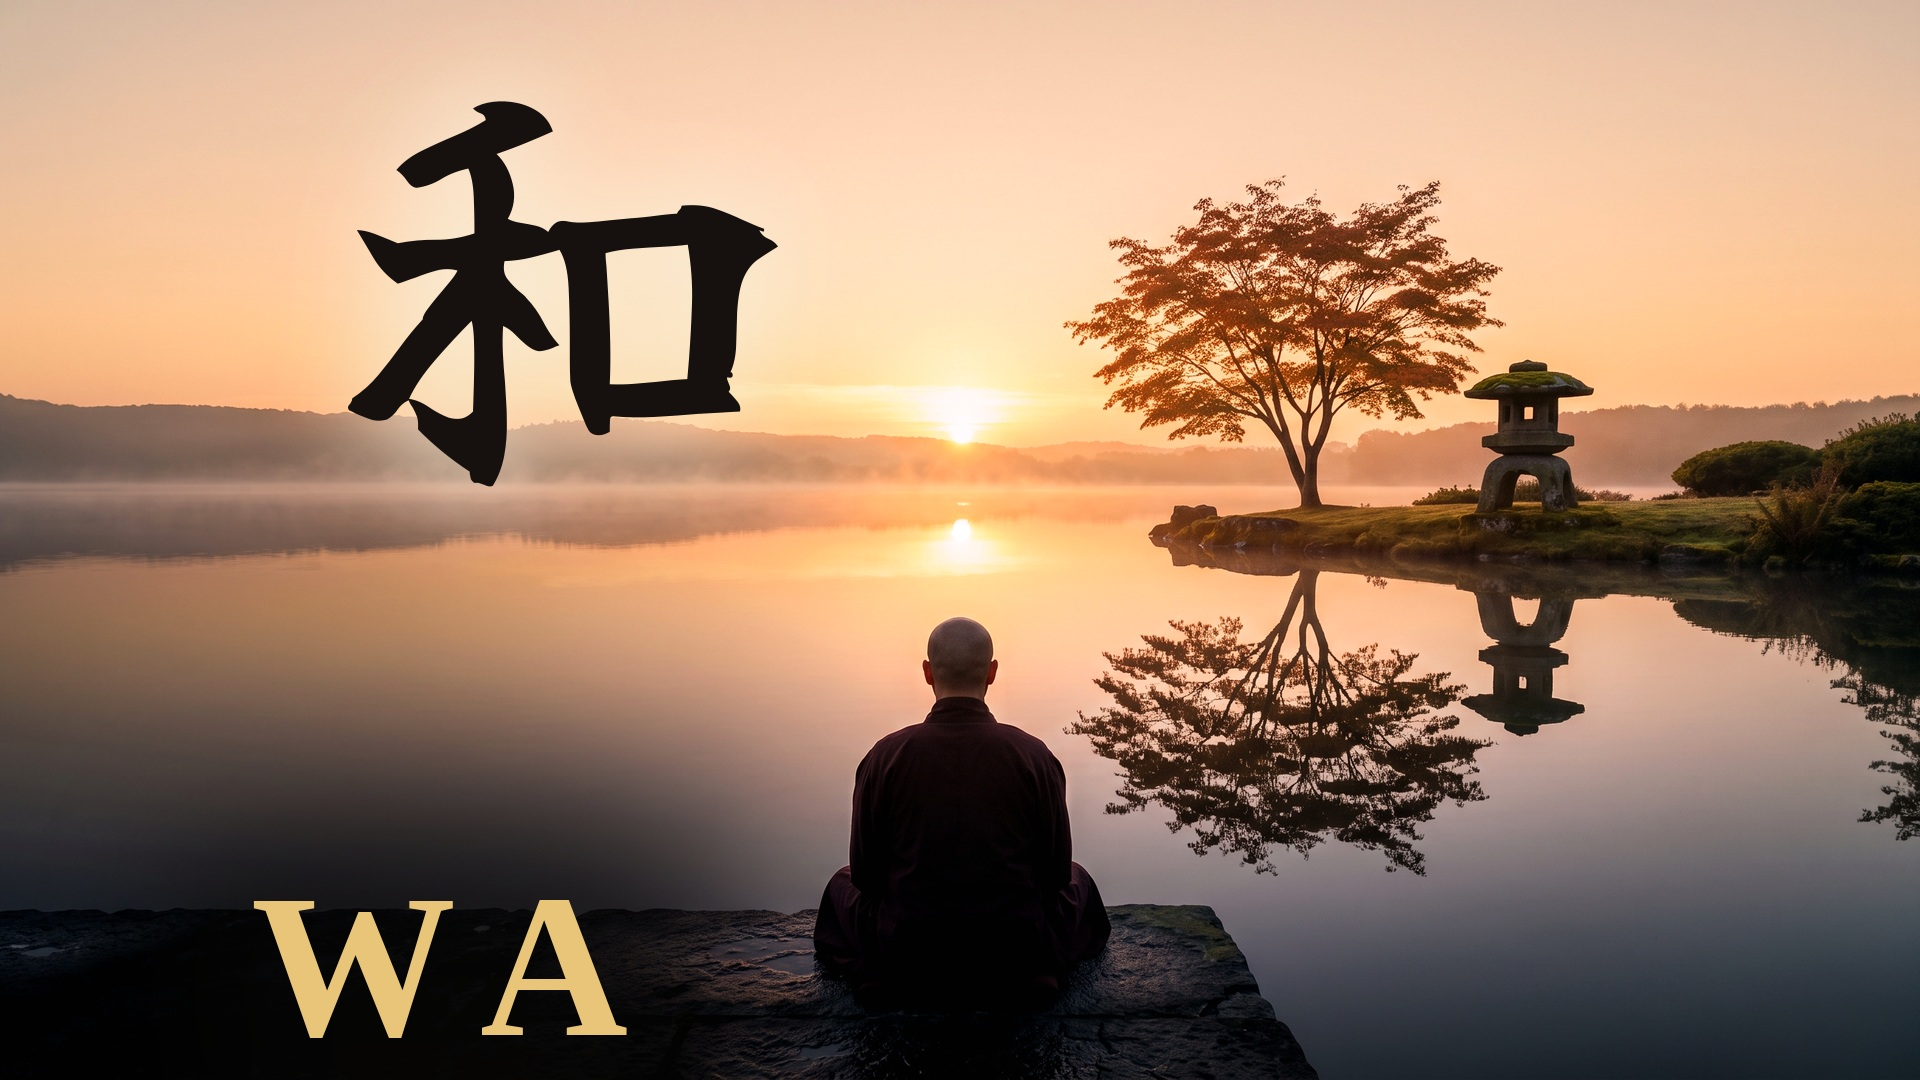
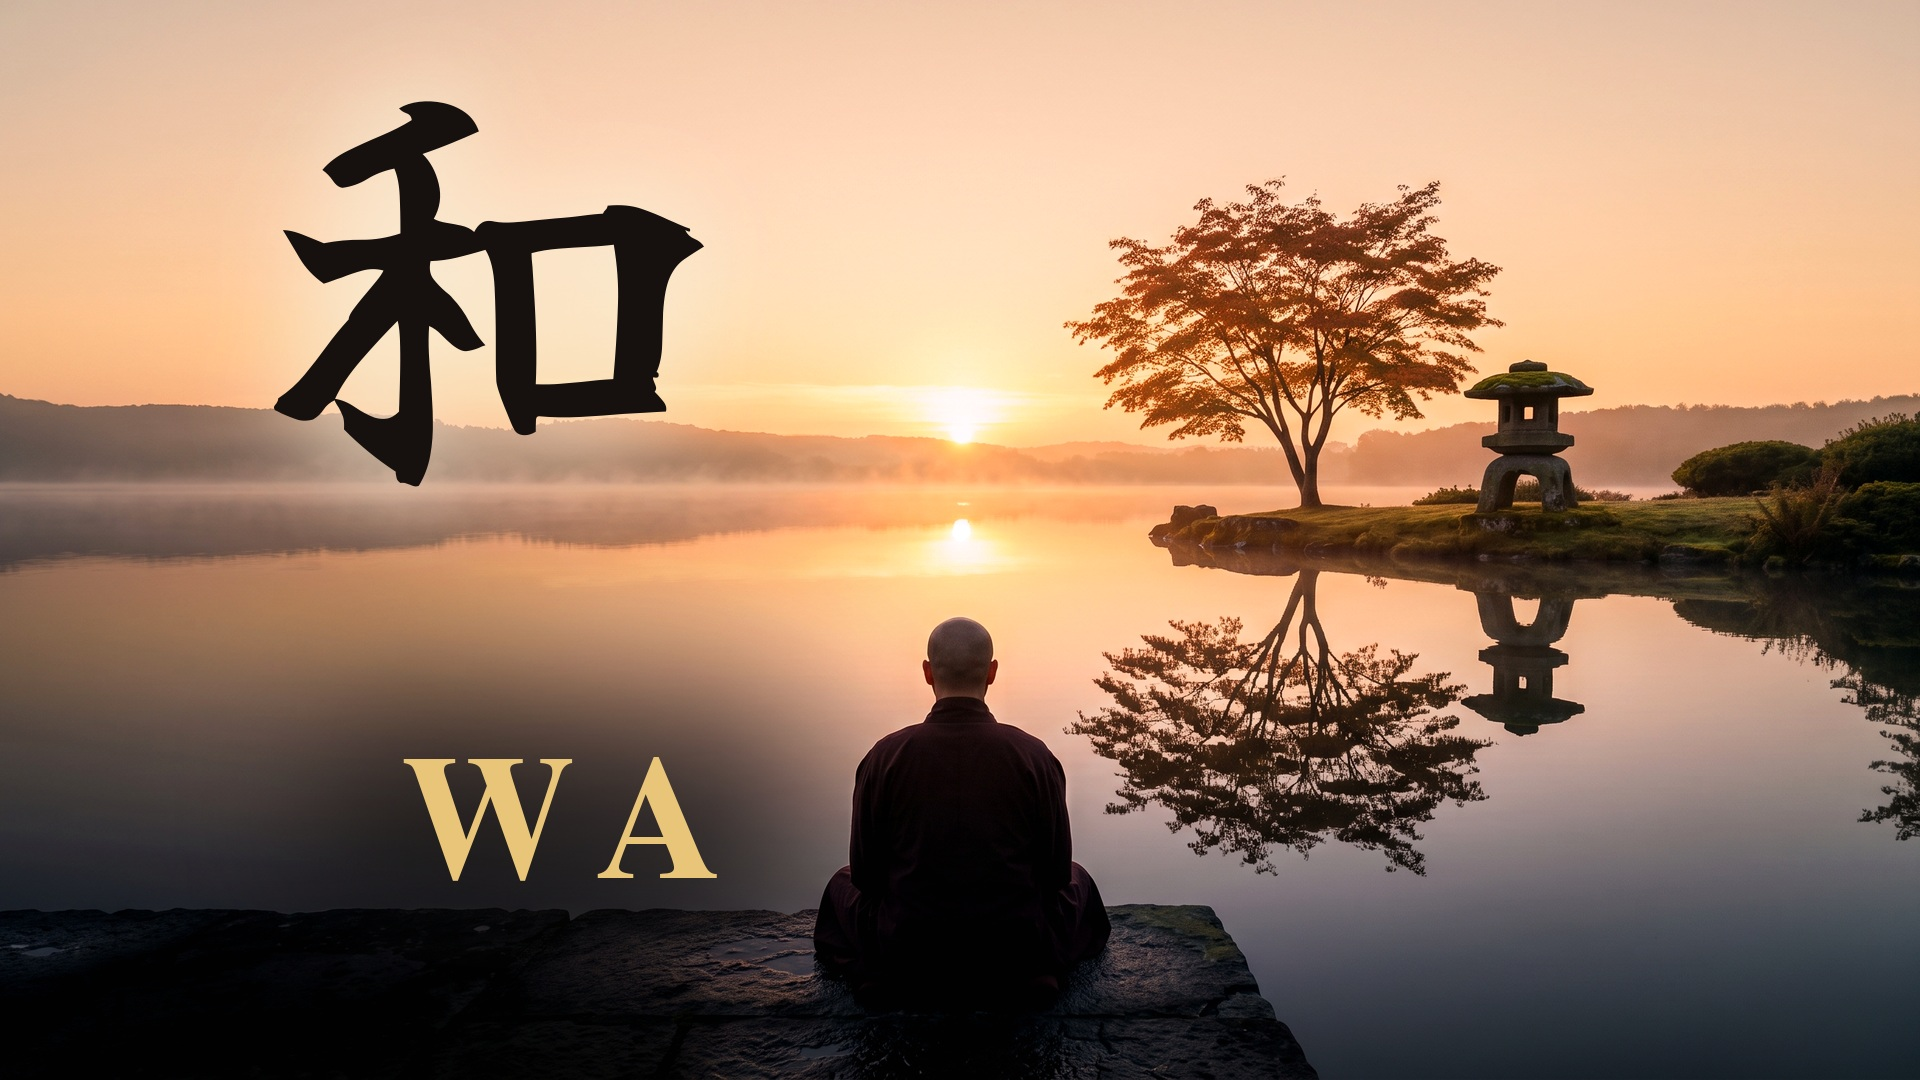
WA thumbnail v2: 和 shifted left to old W-start, WA over the pier, FreeSerif Bold

Changed region(s): [[0.125, 0.5806, 0.4375, 0.9778], [0.125, 0.0917, 0.4062, 0.4583]]

diff --git a/stillwave/assets/wa-compose-thumb.py b/stillwave/assets/wa-compose-thumb.py
@@ -12,6 +12,7 @@ from PIL import Image, ImageDraw, ImageFont, ImageFilter, ImageEnhance
 SRC = "/home/user/dan-documents/stillwave/assets/wa-2h-source.jpg"
 KANJI = "/home/user/dan-documents/stillwave/assets/fonts/YujiBoku-Regular.ttf"
 SERIF = "/usr/share/fonts/truetype/liberation/LiberationSerif-Bold.ttf"
+SERIF2 = "/usr/share/fonts/truetype/freefont/FreeSerifBold.ttf"  # elegant classic serif for WA
 OUT = "/home/user/dan-documents/stillwave/assets/wa-2h-thumb.jpg"
 W, H = 1920, 1080
 CREAM = (245, 234, 210, 255)
@@ -57,13 +58,14 @@ def _lerp_gold(f):
     return GOLD_STOPS[-1][1]
 
 
-def ink(im, char, size, cx, top_y, halo=44):
-    """LARGE dark sumi kanji with a soft cream halo — reads as brushed ink on a bright sky."""
+def ink(im, char, size, left_x, top_y, halo=44):
+    """LARGE dark sumi kanji with a soft cream halo — reads as brushed ink on a bright sky.
+    left_x = desired visible LEFT edge of the glyph."""
     f = ImageFont.truetype(KANJI, size)
     mask = Image.new("L", (W, H), 0)
     md = ImageDraw.Draw(mask)
     l, t, r, b = f.getbbox(char)
-    md.text((cx - (l + (r - l) / 2), top_y - t), char, font=f, fill=255)
+    md.text((left_x - l, top_y - t), char, font=f, fill=255)
     # cream halo (light aura lifts the ink off the peach sky)
     halo_l = Image.new("RGBA", (W, H), (0, 0, 0, 0))
     halo_l.paste((248, 238, 216, 255), (0, 0),
@@ -93,10 +95,20 @@ def spaced_centre(im, text, size, cx_centre, y, fill=GOLD, ls=20, font=SERIF, sc
         cx += w + ls
 
 
+def wa_left_edge(cx_centre, size, ls, font, text="WA"):
+    f = ImageFont.truetype(font, size)
+    d = ImageDraw.Draw(Image.new("RGB", (10, 10)))
+    widths = [d.textlength(c, font=f) for c in text]
+    total = sum(widths) + ls * (len(text) - 1)
+    return cx_centre - total / 2
+
+
 im = base()
-# 和 — LARGE dark sumi, upper-left over the clean dawn sky (clear of sun + maple)
-ink(im, "和", 470, 560, 100, halo=46)
-# WA — LARGE gold serif, low-left on the dark foreground stone
-spaced_centre(im, "WA", 205, 440, 852, fill=GOLD, ls=24, font=SERIF)
+# reference: where the "W" started in the previous render (Liberation, cx=440, size=205, ls=24)
+W_START = wa_left_edge(440, 205, 24, SERIF)
+# 和 — LARGE dark sumi, same height as before, LEFT edge aligned to the old W start
+ink(im, "和", 470, W_START, 100, halo=46)
+# WA — LARGE gold serif (FreeSerif Bold), centred over the pier the monk sits on
+spaced_centre(im, "WA", 175, 560, 738, fill=GOLD, ls=22, font=SERIF2)
 im.convert("RGB").save(OUT, quality=94)
-print("saved", OUT)
+print("saved", OUT, "W_START=", round(W_START))
